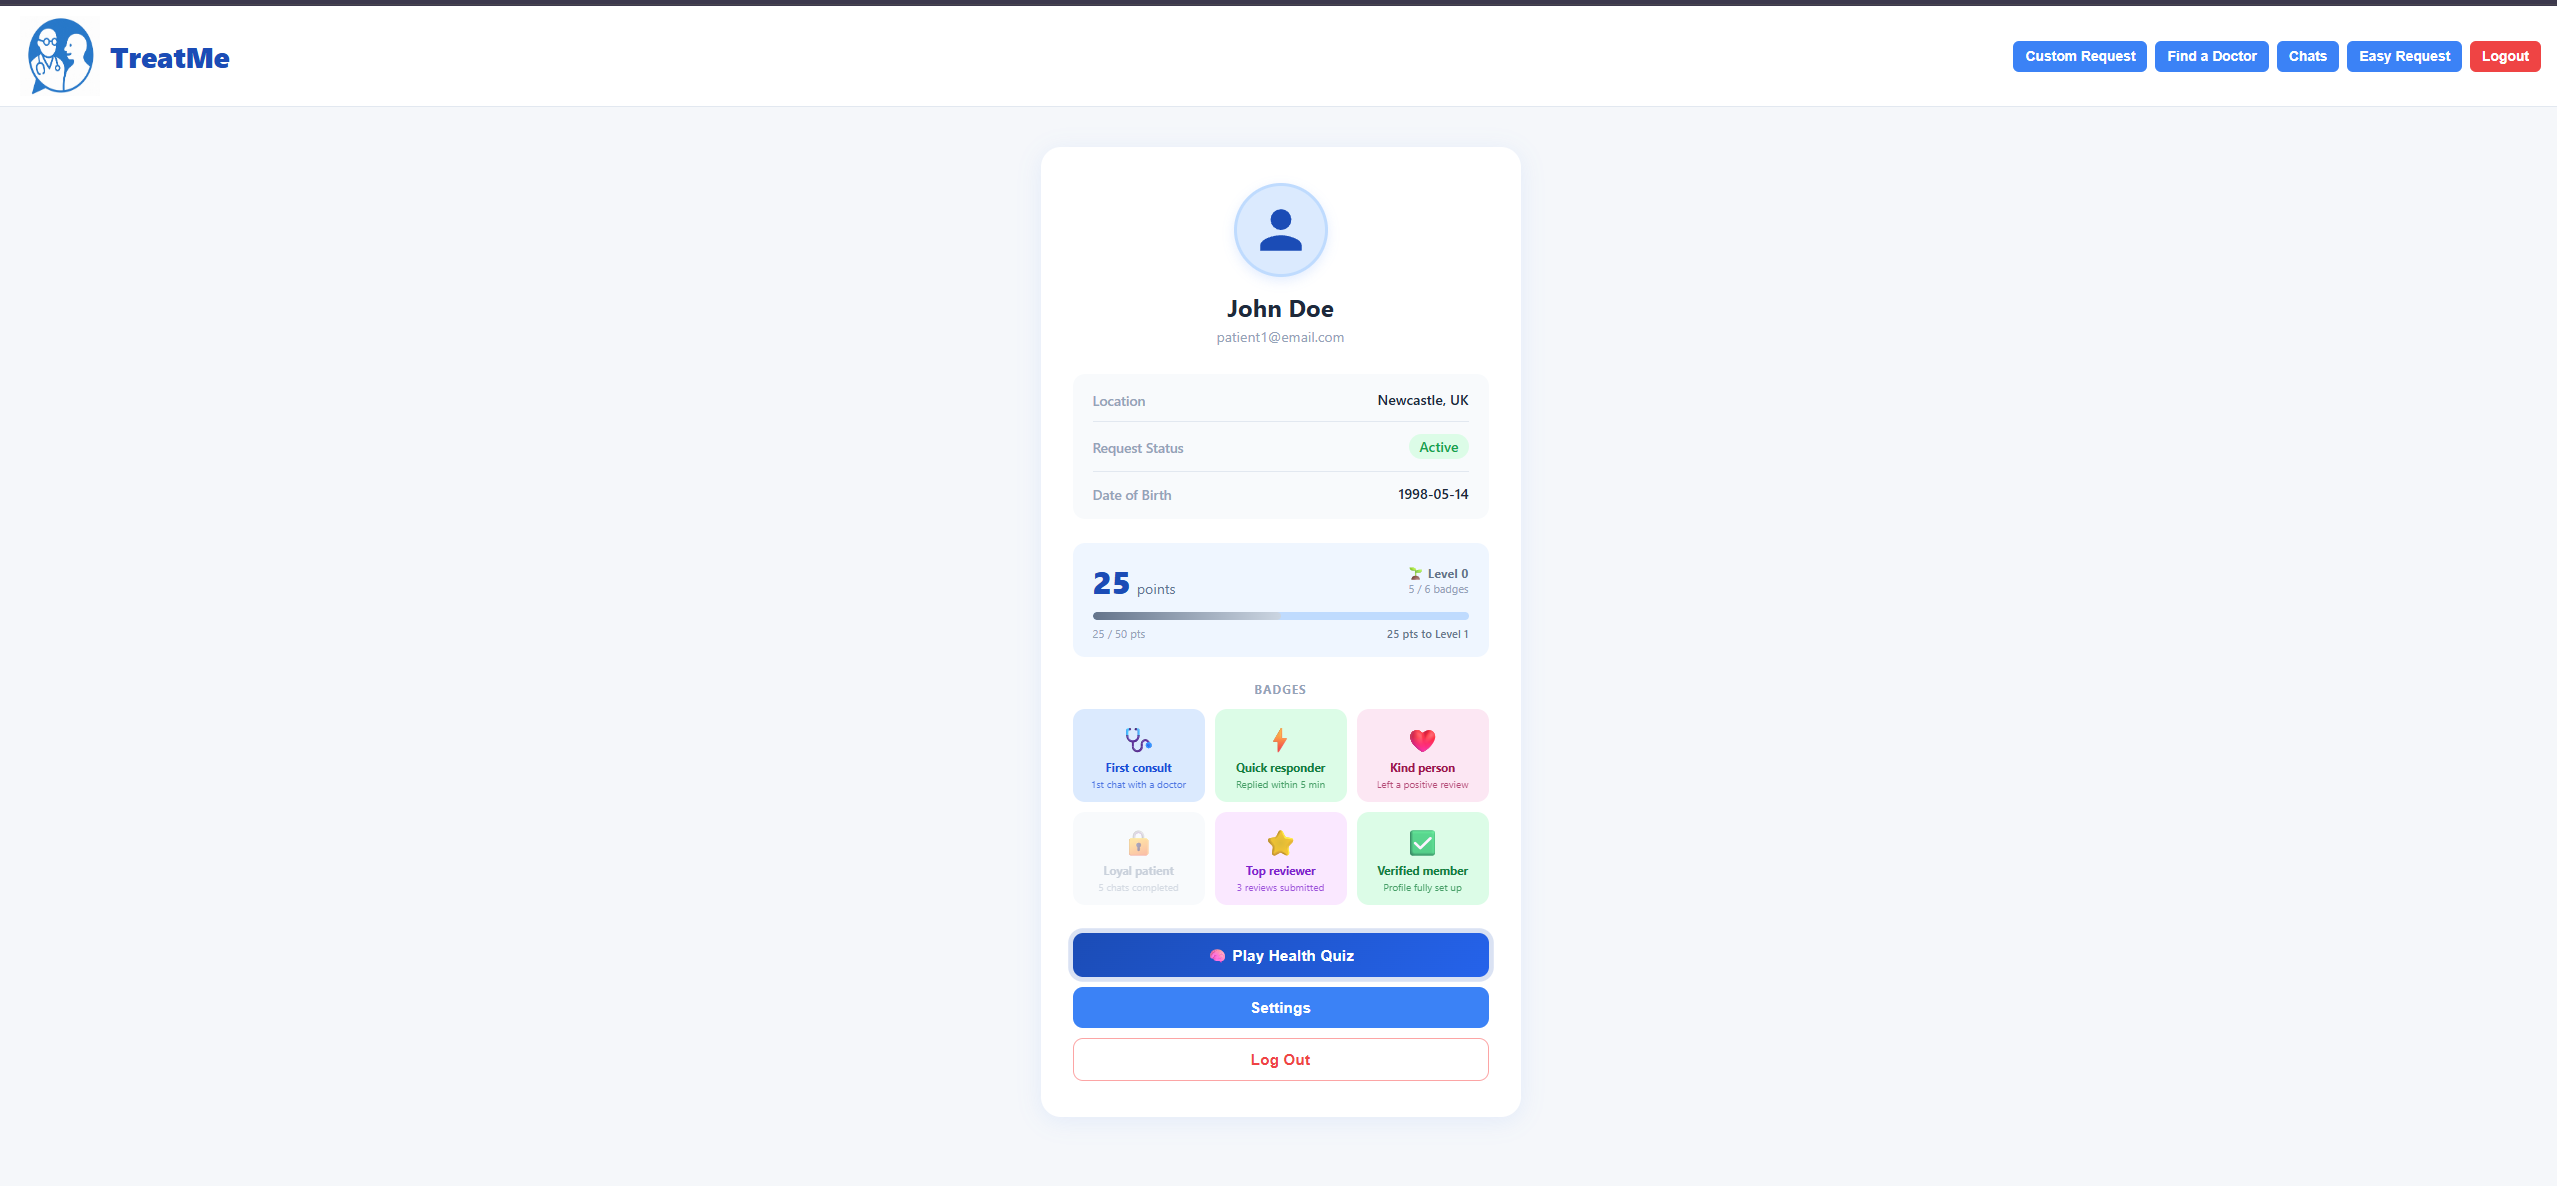
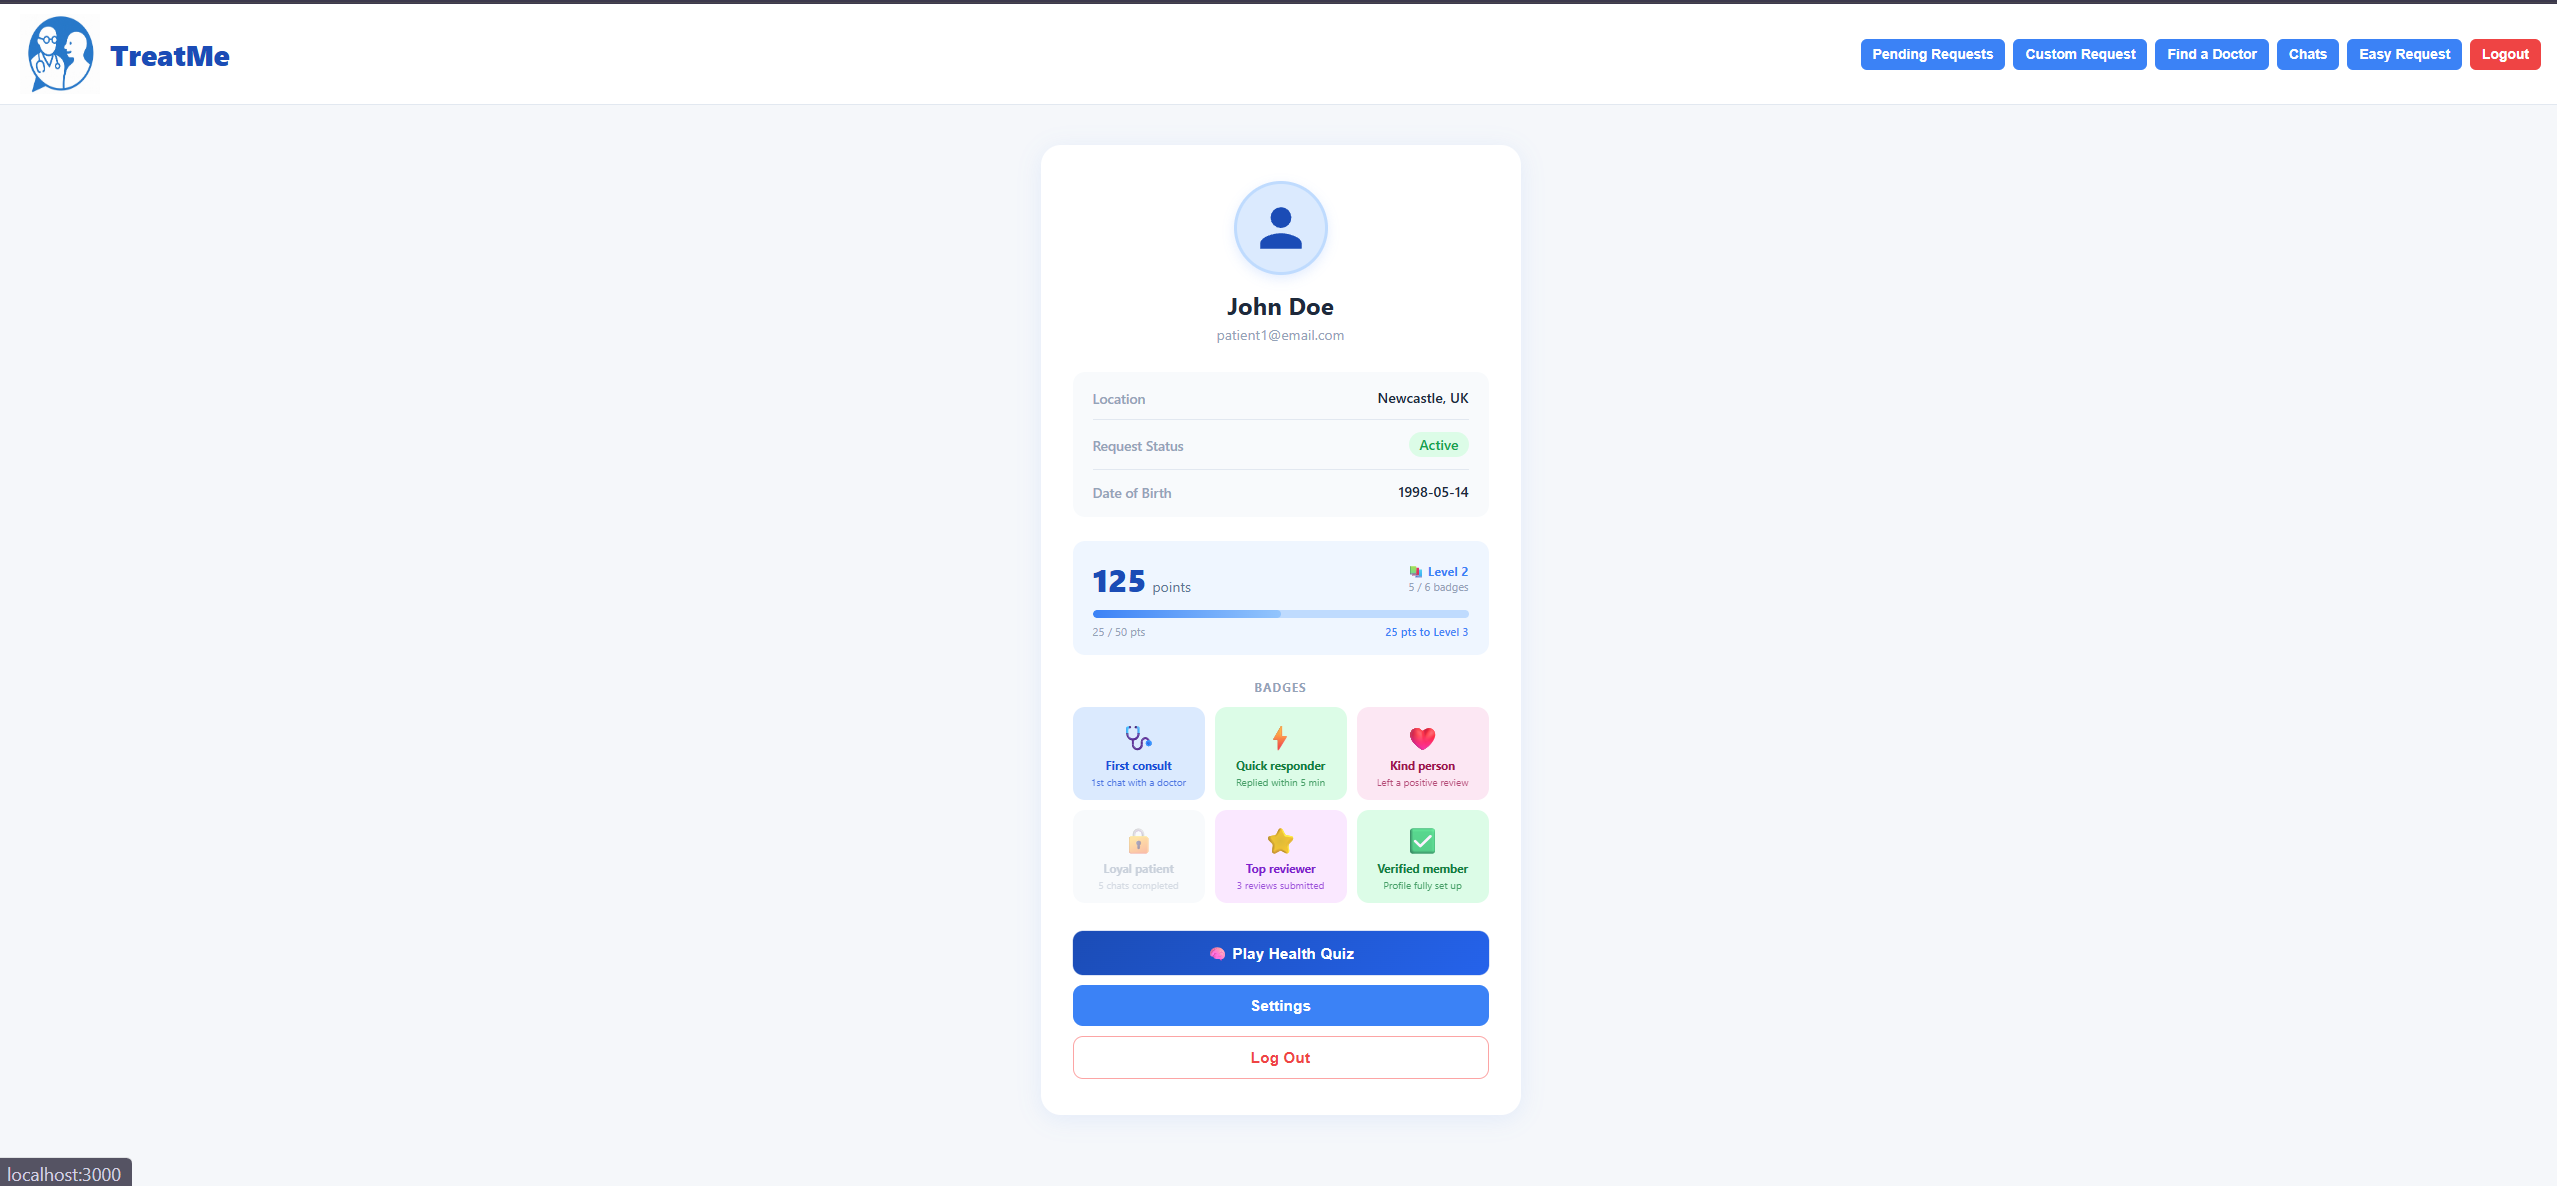
Added more information in features

diff --git a/client/src/Dashboard.js b/client/src/Dashboard.js
@@ -428,6 +428,7 @@ const handleAwardPoints = async (pts) => {
           <div style={{ fontSize:"1.8rem", color:"#1b4cb6", fontWeight:"800" }}>TreatMe</div>
         </Link>
         <div style={{ display:"flex", gap:"8px", alignItems:"center", flexWrap:"wrap", justifyContent:"flex-end" }}>
+          <Link to="/my-requests"><button style={{ backgroundColor:"#3b82f6", color:"white", padding:"8px 12px", borderRadius:"6px", border:"none", cursor:"pointer", fontWeight:"600", fontSize:"0.85rem", whiteSpace:"nowrap" }}>Pending Requests</button></Link>
           <Link to="/post-request"><button style={{ backgroundColor:"#3b82f6", color:"white", padding:"8px 12px", borderRadius:"6px", border:"none", cursor:"pointer", fontWeight:"600", fontSize:"0.85rem", whiteSpace:"nowrap" }}>Custom Request</button></Link>
           <Link to="/search"><button style={{ backgroundColor:"#3b82f6", color:"white", padding:"8px 12px", borderRadius:"6px", border:"none", cursor:"pointer", fontWeight:"600", fontSize:"0.85rem", whiteSpace:"nowrap" }}>Find a Doctor</button></Link>
           <Link to="/chat"><button style={{ backgroundColor:"#3b82f6", color:"white", padding:"8px 12px", borderRadius:"6px", border:"none", cursor:"pointer", fontWeight:"600", fontSize:"0.85rem", whiteSpace:"nowrap" }}>Chats</button></Link>

diff --git a/flaskServer/__init__.py b/flaskServer/__init__.py
@@ -122,7 +122,6 @@ def create_app():
             "date_of_birth": date(1980, 1, 1),
             "location": "Newcastle, UK",
             "specialty": "Cardiology",
-            "gender": "Male",
             "language": "English,Spanish,French",
             "bio": "My name is James Turner and I've been working as a cardiologist for 10 years.",
             "availability": True,
@@ -140,7 +139,6 @@ def create_app():
             "date_of_birth": date(1985, 5, 15),
             "location": "Liverpool, UK",
             "specialty": "Pediatrics",
-            "gender": "Female",
             "language": "English,Spanish",
             "bio": "Hi! I'm Jane Smith. I'm a pediatrician working for 12 years.",
             "availability": True,
@@ -192,7 +190,6 @@ def create_app():
                     date_of_birth=doc_data["date_of_birth"],
                     location=doc_data["location"],
                     specialty=doc_data["specialty"],
-                    gender=doc_data["gender"],
                     language=doc_data["language"],
                     bio=doc_data["bio"],
                     availability=doc_data["availability"]

diff --git a/flaskServer/run.py b/flaskServer/run.py
@@ -5,6 +5,8 @@ import pytest
 env = os.getenv('FLASK_ENV', 'development')
 
 if __name__ == '__main__':
+    print("ENV DATABASE_URL:", os.getenv("DATABASE_URL"))
+    print("FLASK_ENV:", os.getenv("FLASK_ENV"))
     if os.environ.get('WERKZEUG_RUN_MAIN') != 'true':
         base_dir = os.path.dirname(os.path.abspath(__file__))
         tests_dir = os.path.join(base_dir, 'flaskServer', 'tests')

diff --git a/README.md b/README.md
@@ -13,6 +13,14 @@ TreatMe is a digital healthcare platform designed to connect patients with quali
 Patients begin by signing up and then completing a health questionnaire covering their symptoms and relevant medical history. Based on this input, the system matches them with a suitable heathcare professional. This ensures that advice is relevant and personalised. 
 Our application also enables doctors to sign up and provide medical guidance to patients seeking assistance. Doctors are required to submit relevant qualifications during registration to ensure patients receive legitimate healthcare advice.
 
+### Launching the project
+
+navigate to the root directory and run these commands
+```bash
+docker compose down -v
+docker compose build --no-cache
+docker compose up
+```
 ## Key Features
 
 - **Secure Messaging System**
@@ -101,6 +109,8 @@ Our application is an easier solution for patients in rural areas and we provide
 ### Users requests page
 
 ![User requests page](./docs/requests.png)
+
+![User requests page](./docs/filledRequests.png)
 
 
 
